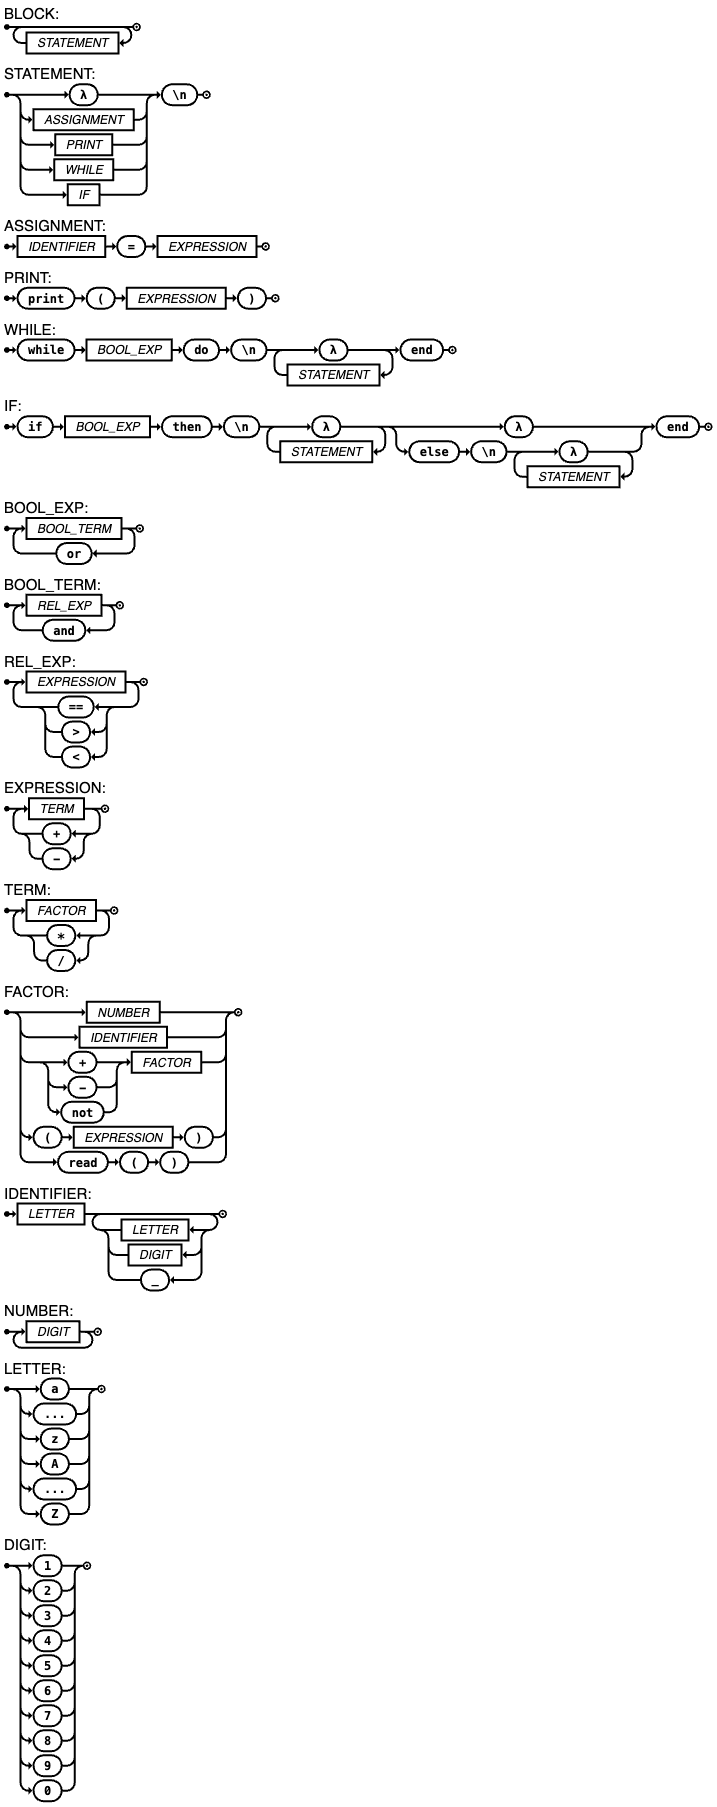
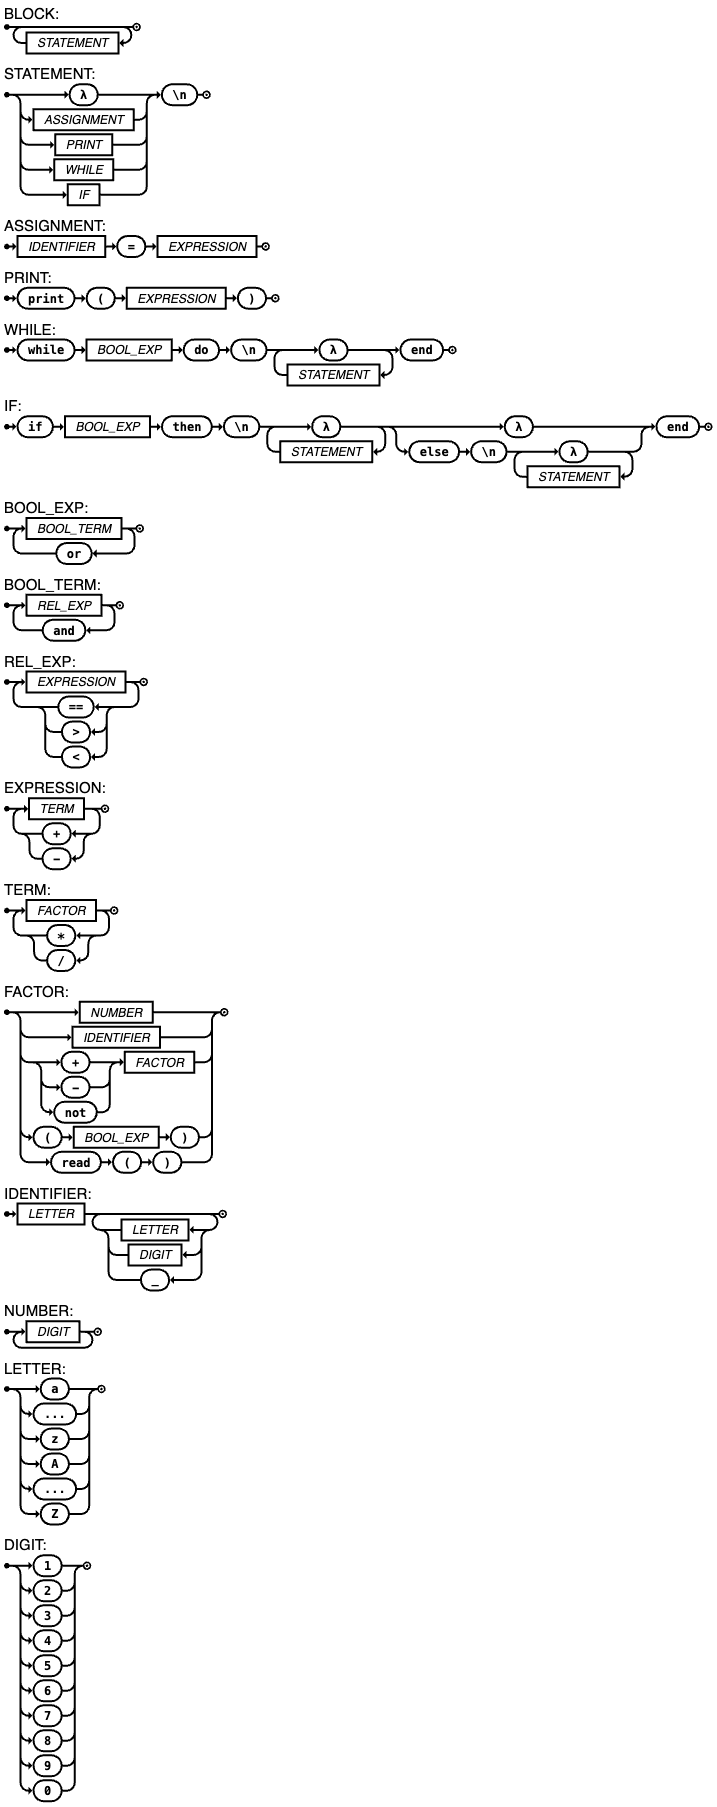
correcting minor issue with EBNF and Railroad Diagram

Changed region(s): [[0.0307, 0.5578, 0.3375, 0.6508]]

diff --git a/main.swift b/main.swift
@@ -48,6 +48,16 @@ class BinOp: Node {
       return self.children[0].evaluate() * self.children[1].evaluate()
     } else if self.value == "/" {
       return self.children[0].evaluate() / self.children[1].evaluate()
+    } else if self.value == "or" {
+      return self.children[0].evaluate() || self.children[1].evaluate()
+    } else if self.value == "and" {
+      return self.children[0].evaluate() && self.children[1].evaluate()
+    } else if self.value == "==" {
+      return self.children[0].evaluate() == self.children[1].evaluate()
+    } else if self.value == ">" {
+      return self.children[0].evaluate() > self.children[1].evaluate()
+    } else if self.value == "<" {
+      return self.children[0].evaluate() < self.children[1].evaluate()
     }
     return 0
   }
@@ -67,6 +77,8 @@ class UnOp: Node {
       return self.children[0].evaluate()
     } else if self.value == "-" {
       return -self.children[0].evaluate()
+    } else if self.value == "not" {
+      return !self.children[0].evaluate()
     }
     return 0
   }

diff --git a/README.md b/README.md
@@ -18,7 +18,7 @@ BOOL_TERM = REL_EXP, { ("and"), REL_EXP } ;
 REL_EXP = EXPRESSION, { ("==" | ">" | "<"), EXPRESSION } ;
 EXPRESSION = TERM, { ("+" | "-"), TERM } ;
 TERM = FACTOR, { ("*" | "/"), FACTOR } ;
-FACTOR = NUMBER | IDENTIFIER | (("+" | "-" | "not"), FACTOR ) | "(", EXPRESSION, ")" | "read", "(", ")" ;
+FACTOR = NUMBER | IDENTIFIER | (("+" | "-" | "not"), FACTOR ) | "(", BOOL_EXP, ")" | "read", "(", ")" ;
 IDENTIFIER = LETTER, { LETTER | DIGIT | "_" } ;
 NUMBER = DIGIT, { DIGIT } ;
 LETTER = ( "a" | "..." | "z" | "A" | "..." | "Z" ) ;
